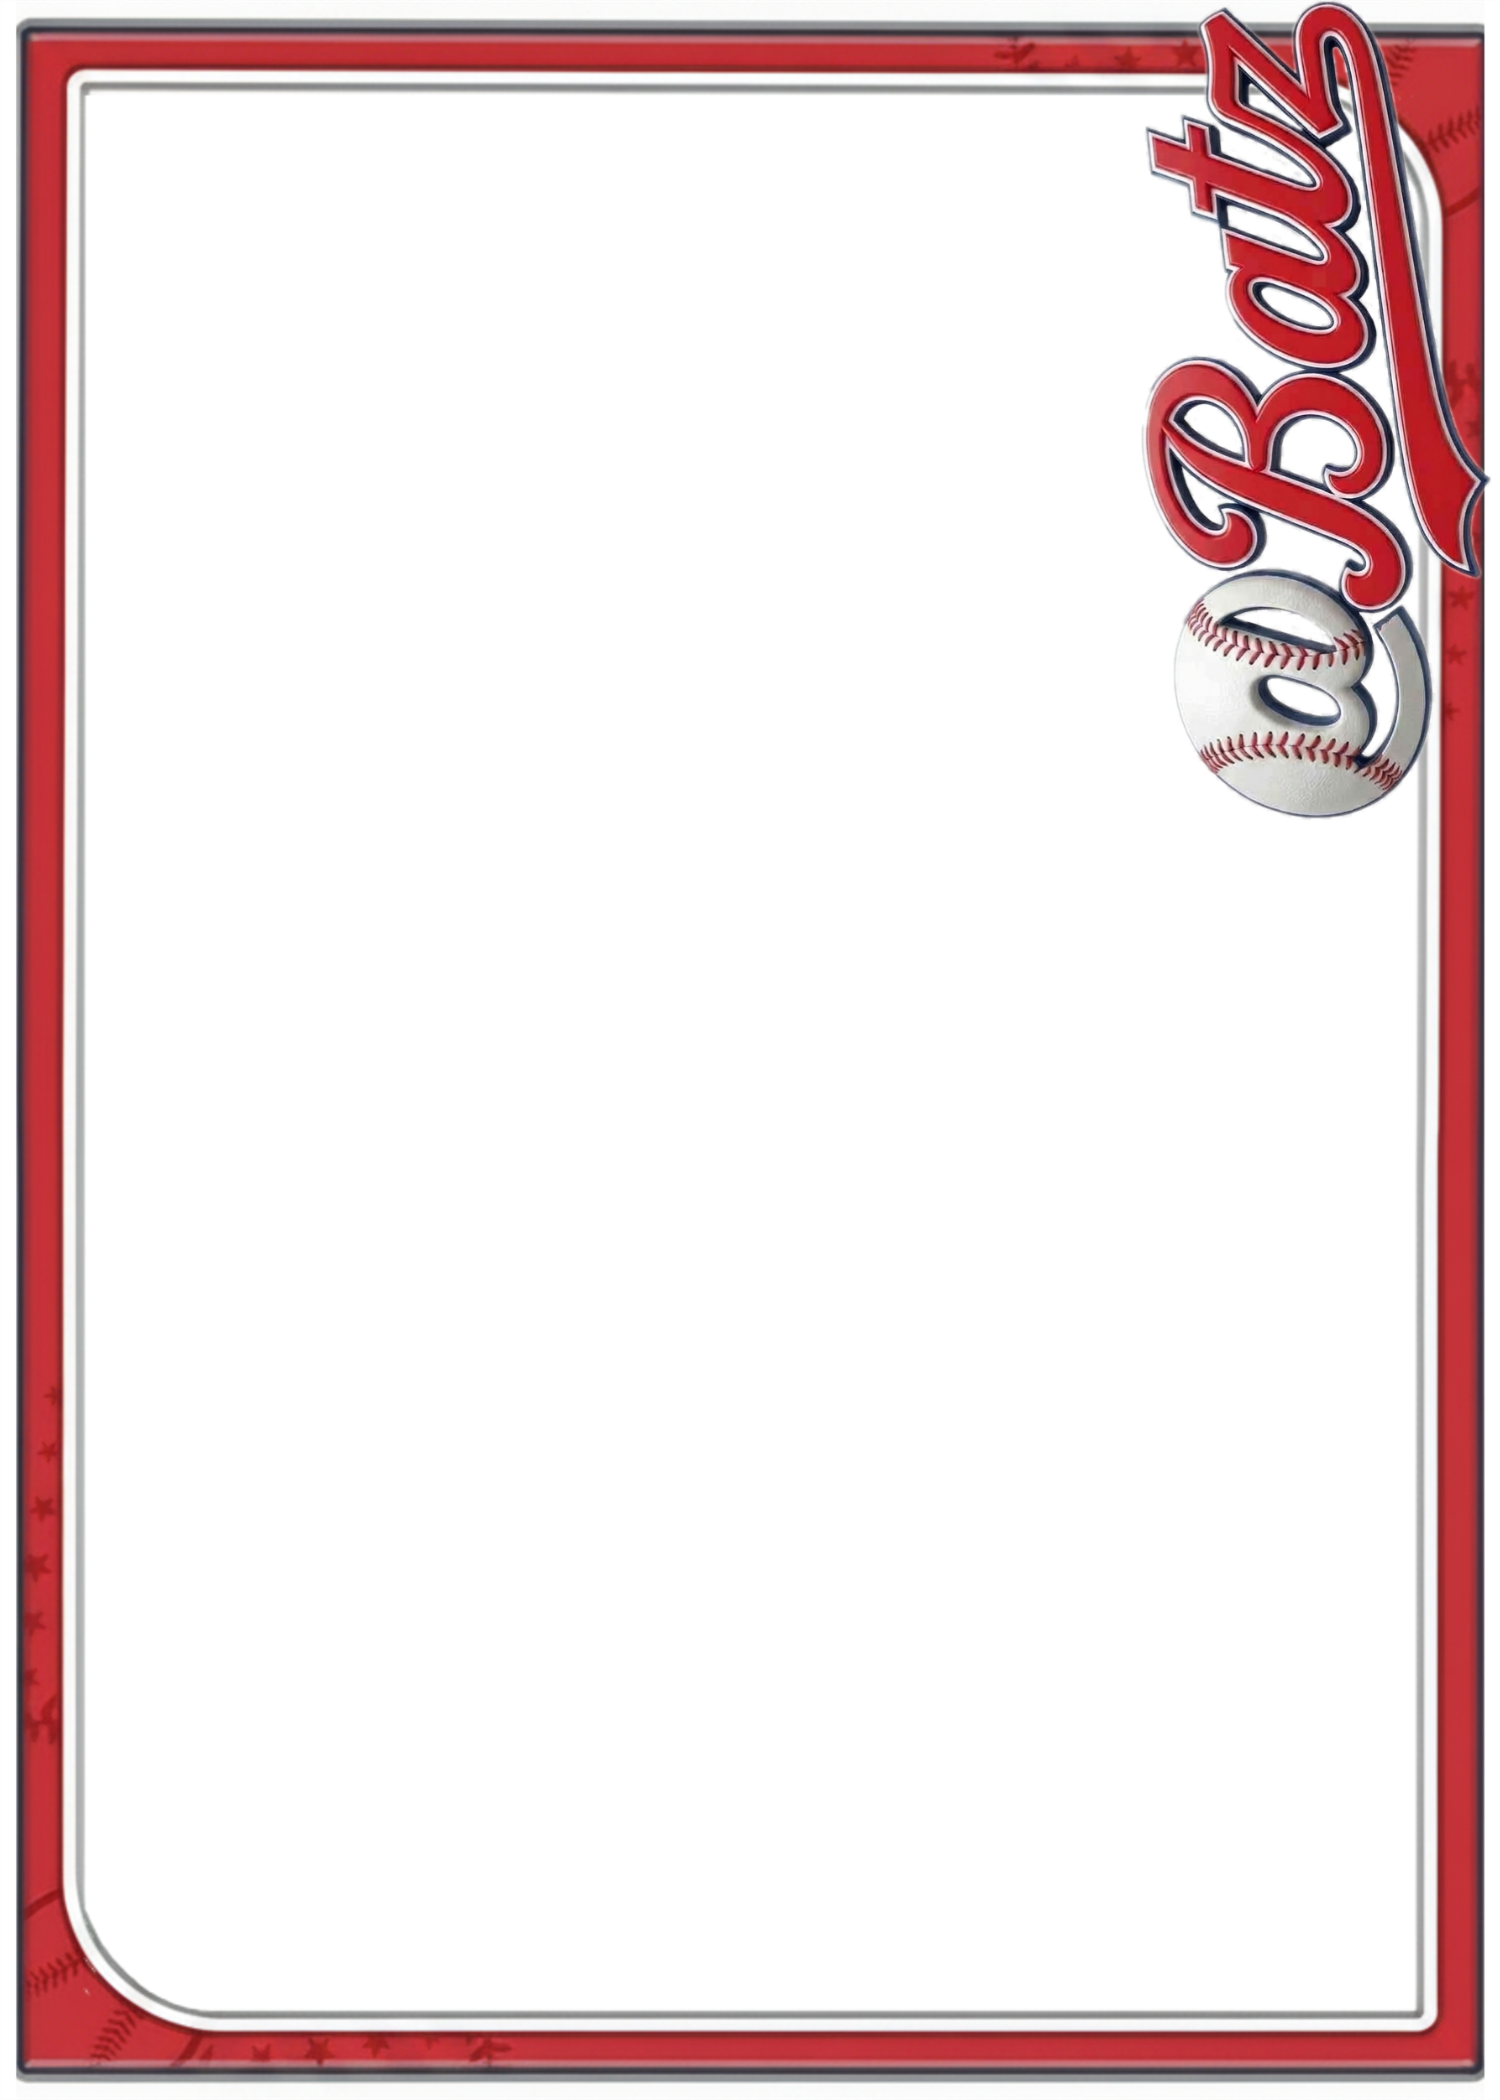
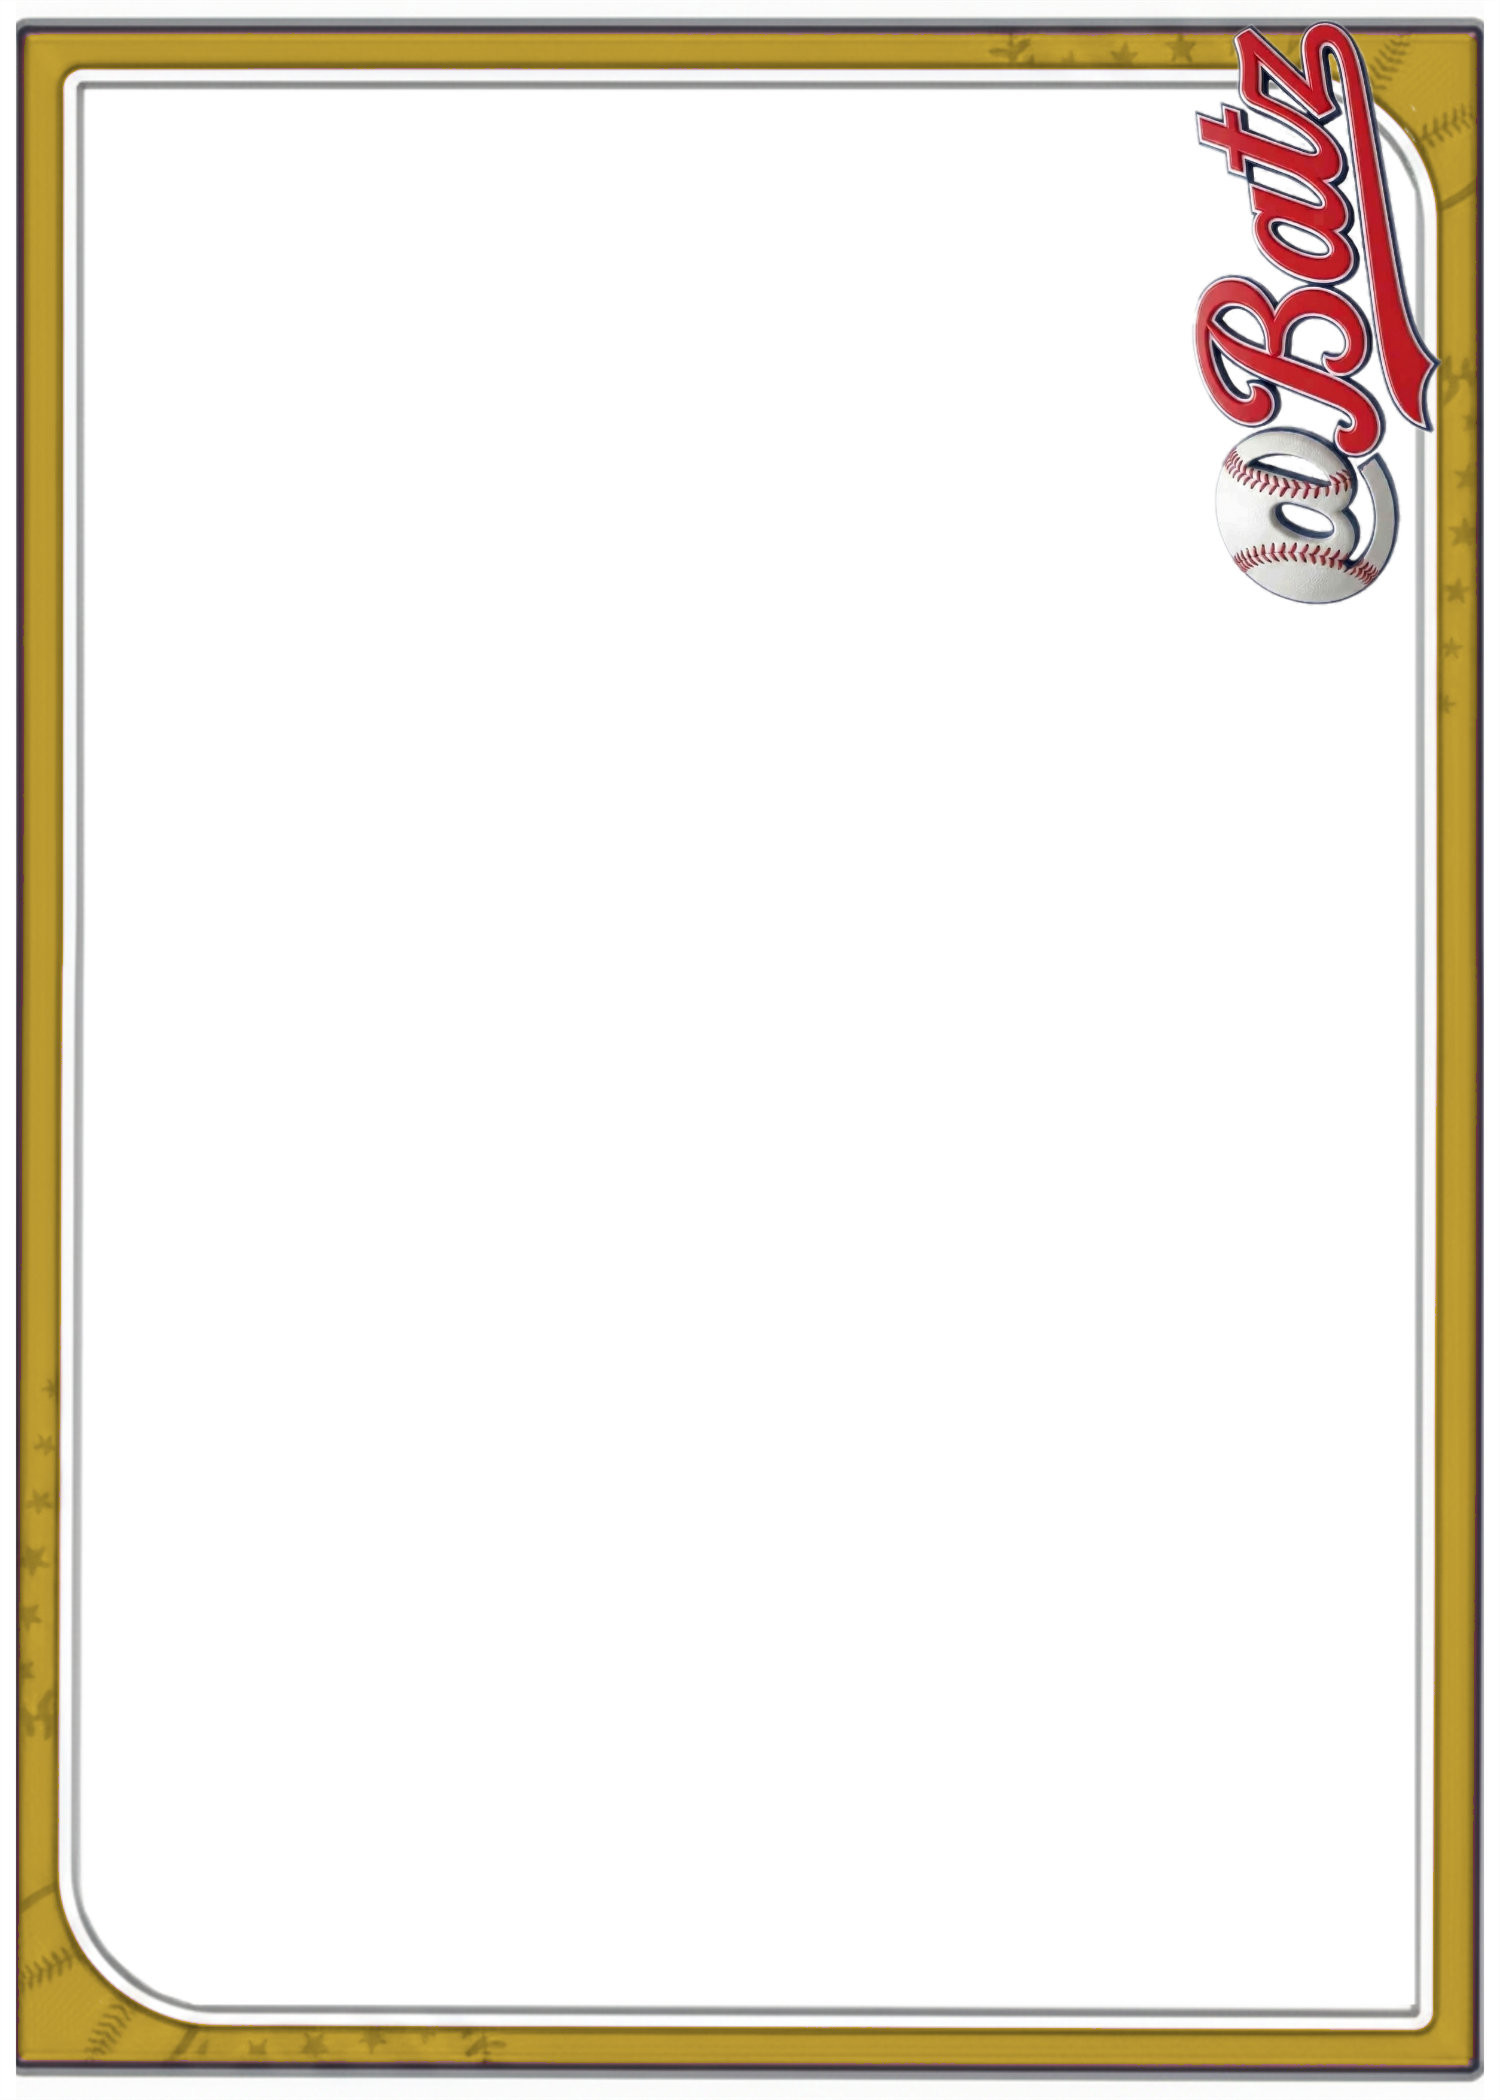
Recolor Level 1 card to gold, add separate freecard identity for guest players
card1_front.png / card1_back_landscape.png (the live "Level 1" template
used by real Supabase-backed players) are now gold border/banner/logo-frame
with the red "@Batz" logo preserved, replacing the original all-red design.

Also splits the card template identity in two: PlayerCard.tsx and
PlayerCardStatsBack.tsx take a new `cardSet` prop ("card1" default = Level
1 real players, "freecard" = the local "Create A Player" / guest feature).
freecard_front.png / freecard_back_landscape.png start as copies of the
pre-gold Card1 art so the guest experience is unaffected by this change,
but can now be restyled independently going forward. Wired into the local
player screen and Home's "My Custom Players" section.

Includes the various red/blue/gold test variants generated while landing
on the final look, kept in CardTemplates/Card1/ for reference.

Changed region(s): [[0.0, 0.0, 1.0, 1.0]]

diff --git a/app/components/PlayerCardStatsBack.tsx b/app/components/PlayerCardStatsBack.tsx
@@ -5,7 +5,12 @@ import type { PlayerSeasonLine } from "../lib/playerRepository";
 import type { BattingCounts, CalculatedStats } from "../lib/stats";
 import { OutlinedText } from "./PlayerCard";
 
-const CARD_FRAME = require("../assets/card1_back_landscape.png");
+// card1_back_landscape.png = the "Level 1" card back, used by real
+// (Supabase-backed) players. freecard_back_landscape.png = the fully-local
+// "Create A Player" / guest feature's own card identity -- kept separate,
+// same reasoning as PlayerCard.tsx's CARD_FRAME_LEVEL1/CARD_FRAME_FREE.
+const CARD_FRAME_LEVEL1 = require("../assets/card1_back_landscape.png");
+const CARD_FRAME_FREE = require("../assets/freecard_back_landscape.png");
 // card1_back_landscape.png is card1_back.png (the print-ready Card1 back
 // template, 1500x2100 @ 600 PPI) rotated 90deg clockwise back to landscape
 // so it fits this face's existing stats-table layout. Every position below
@@ -118,6 +123,7 @@ export default function PlayerCardStatsBack({
   teamLogoUrl,
   uniformNumber,
   locked = false,
+  cardSet = "card1",
 }: {
   firstName: string;
   lastName: string;
@@ -142,8 +148,12 @@ export default function PlayerCardStatsBack({
   // is_coach_fallback — name/team info is already reduced to just the
   // default tag by the caller before this ever gets here.
   locked?: boolean;
+  // "card1" (default) = Level 1 real-player card back. "freecard" = the
+  // local "Create A Player" / guest feature's own card identity.
+  cardSet?: "card1" | "freecard";
 }) {
   const [width, setWidth] = useState(0);
+  const CARD_FRAME = cardSet === "freecard" ? CARD_FRAME_FREE : CARD_FRAME_LEVEL1;
   const scale = width / CANVAS_W;
 
   function onLayout(e: LayoutChangeEvent) {

diff --git a/app/components/PlayerCard.tsx b/app/components/PlayerCard.tsx
@@ -1,7 +1,15 @@
 import { useState } from "react";
 import { View, Text, Image, StyleSheet, type LayoutChangeEvent } from "react-native";
 
-const CARD_FRAME = require("../assets/card1_front.png");
+// card1_front.png = the "Level 1" card, used by real (Supabase-backed)
+// players. freecard_front.png = the fully-local "Create A Player" / guest
+// feature's own card identity, kept separate so the two can diverge later
+// even though they're visually identical copies of the same art today.
+// Metro requires static require() paths, so both are required unconditionally
+// and picked between at render time via the cardSet prop, rather than
+// building a dynamic require path.
+const CARD_FRAME_LEVEL1 = require("../assets/card1_front.png");
+const CARD_FRAME_FREE = require("../assets/freecard_front.png");
 // card1_front.png's own pixel dimensions — print-ready size for Snapshot
 // (2.5"x3.5" @ 600 PPI) — drives the wrapper's aspectRatio so the template
 // never gets stretched/cropped, and is also the reference canvas every
@@ -100,13 +108,18 @@ export default function PlayerCard({
   lastName,
   photoUrl,
   teamLogoUrl,
+  cardSet = "card1",
 }: {
   firstName: string;
   lastName: string;
   photoUrl?: string | null;
   teamLogoUrl?: string | null;
+  // "card1" (default) = Level 1 real-player card. "freecard" = the local
+  // "Create A Player" / guest feature's own card identity.
+  cardSet?: "card1" | "freecard";
 }) {
   const [width, setWidth] = useState(0);
+  const CARD_FRAME = cardSet === "freecard" ? CARD_FRAME_FREE : CARD_FRAME_LEVEL1;
 
   function onLayout(e: LayoutChangeEvent) {
     setWidth(e.nativeEvent.layout.width);

diff --git a/app/app/local-player/[id].tsx b/app/app/local-player/[id].tsx
@@ -66,7 +66,7 @@ export default function LocalPlayerScreen() {
   // Built once and reused by both FlipStatsCard (on-screen flip) and
   // CardDownloadButton (its own off-screen capture copies).
   const frontFace = (
-    <PlayerCard key="photo" firstName={player.firstName} lastName={player.lastName} photoUrl={player.photoUrl} teamLogoUrl={player.teamLogoUrl} />
+    <PlayerCard key="photo" firstName={player.firstName} lastName={player.lastName} photoUrl={player.photoUrl} teamLogoUrl={player.teamLogoUrl} cardSet="freecard" />
   );
   const backFace = (
     <PlayerCardStatsBack
@@ -103,6 +103,7 @@ export default function LocalPlayerScreen() {
       uniformNumber={player.uniformNumber}
       locked={false}
       activity={[]}
+      cardSet="freecard"
     />
   );
 

diff --git a/app/app/index.tsx b/app/app/index.tsx
@@ -193,7 +193,7 @@ export default function Home() {
       <View style={styles.tileGrid}>
         {localPlayers.map((p) => (
           <Pressable key={p.id} style={styles.playerPhotoTile} onPress={() => router.push(`/local-player/${p.id}`)}>
-            <PlayerCard firstName={p.firstName} lastName={p.lastName} photoUrl={p.photoUrl} teamLogoUrl={p.teamLogoUrl} />
+            <PlayerCard firstName={p.firstName} lastName={p.lastName} photoUrl={p.photoUrl} teamLogoUrl={p.teamLogoUrl} cardSet="freecard" />
           </Pressable>
         ))}
         <Pressable style={styles.createPlayerTile} onPress={() => router.push("/create-player")}>
